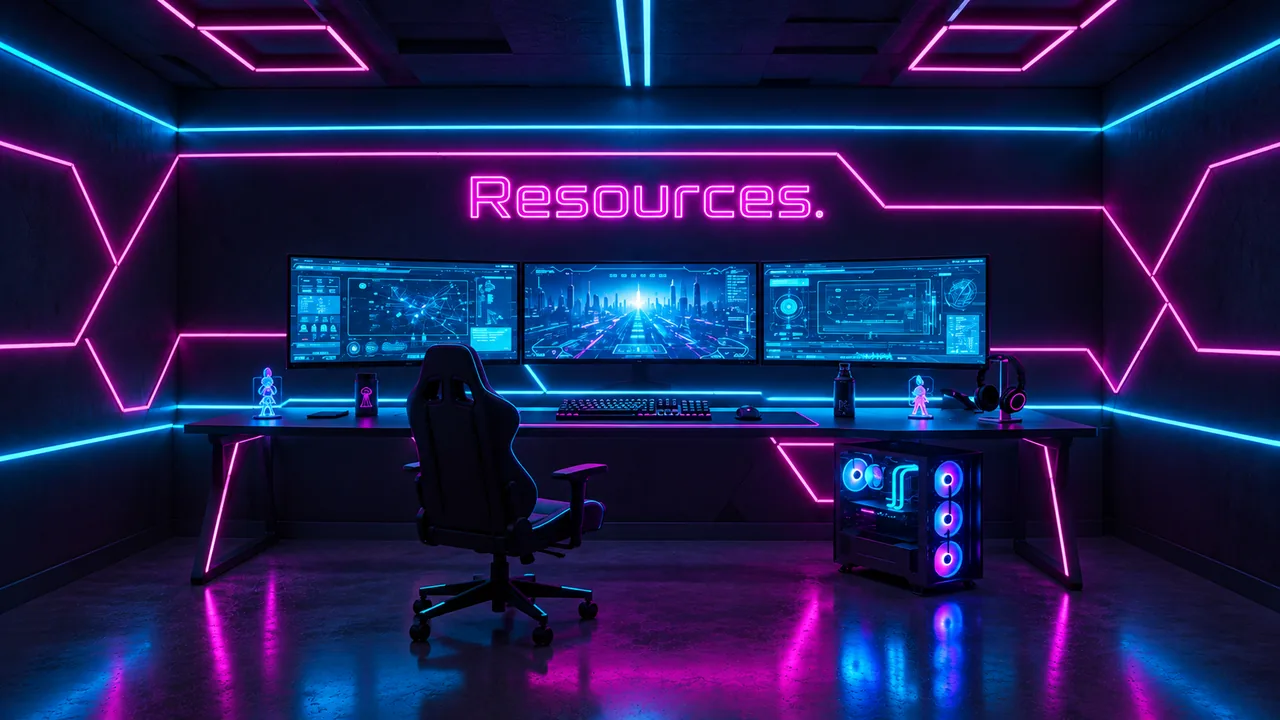
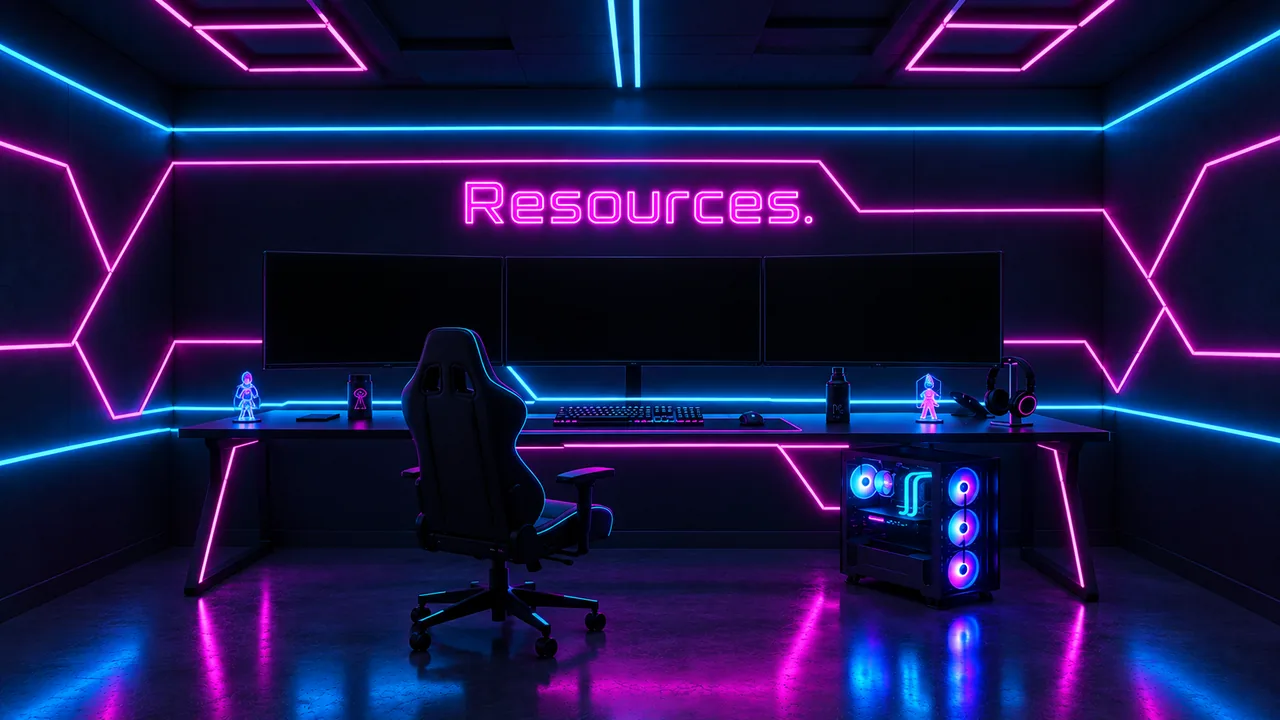
Swap in the dark-screen room and refit the monitors
The new photograph has three blank monitors rather than three running
dashboards, which is a far better fit for what they are being asked to do:
nothing on the glass competes with the label, so a screen reads as a button
rather than as a screenshot with a word laid over it. The labels take more
weight now that there is room for them.

The hit areas were remeasured against this photograph. Screen rectangles are
specific to the picture they were read off, so none of the previous numbers
carried over — they are 20.5, 39.9 and 59.4 percent across now, each about a
fifth of the room wide, which puts every button on the whole pane of glass.

Converted to WebP at 1280x720 and 66KB, down from an 1.8MB source. The source
PNG is dropped rather than kept alongside it.

Claude-Session: https://claude.ai/code/session_01E2cKfwzEM1L89zUkrZoVXp

diff --git a/src/components/interiors/ResourcesInterior.tsx b/src/components/interiors/ResourcesInterior.tsx
@@ -25,28 +25,28 @@ const SCREENS = [
     to: "/faq",
     label: "FAQ",
     blurb: `${faqs.length} answers on entry, fees, scheduling and what to bring.`,
-    left: 22.2,
-    top: 35.6,
-    width: 17.6,
-    height: 14.7,
+    left: 20.5,
+    top: 34.6,
+    width: 19.1,
+    height: 15.8,
   },
   {
     to: "/about",
     label: "About",
     blurb: "What Quantum is, how it is scored, and who runs it.",
-    left: 40.9,
-    top: 35.6,
-    width: 17.5,
-    height: 14.7,
+    left: 39.9,
+    top: 34.7,
+    width: 19.1,
+    height: 15.4,
   },
   {
     to: "/contact",
     label: "Contact",
     blurb: "Reach the organising team before or during the fest.",
-    left: 59.2,
-    top: 35.6,
-    width: 18.8,
-    height: 14.7,
+    left: 59.4,
+    top: 35.0,
+    width: 19.1,
+    height: 15.0,
   },
 ] as const;
 

diff --git a/src/styles.css b/src/styles.css
@@ -3442,7 +3442,7 @@ button.screen:active {
 .desk-screen-label {
   color: #eafcff;
   font-family: var(--font-display, inherit);
-  font-size: clamp(0.65rem, 1.5cqi, 1.05rem);
+  font-size: clamp(0.7rem, 1.9cqi, 1.35rem);
   font-weight: 700;
   letter-spacing: 0.2em;
   text-transform: uppercase;
